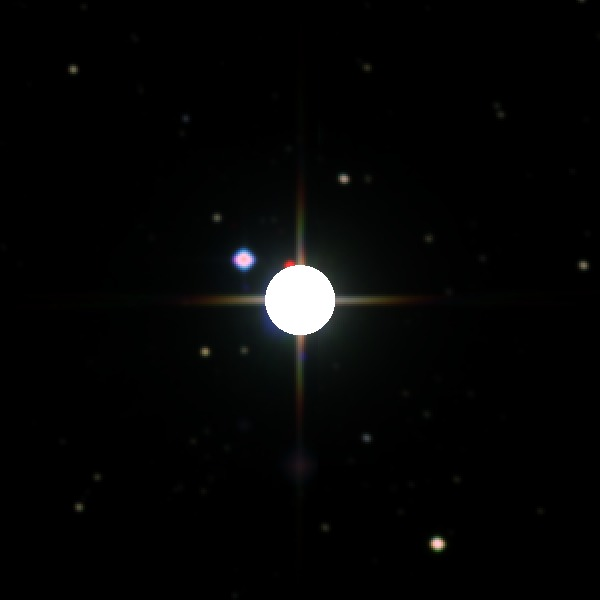
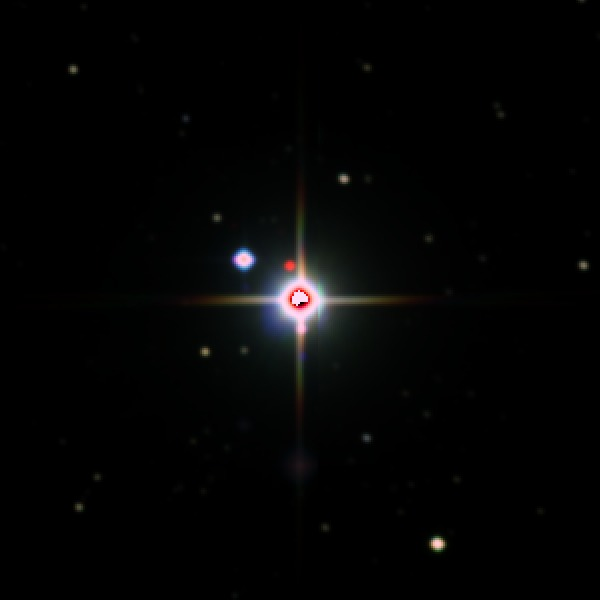
Almanac/Albireo: repair only the saturated-core dip, keep the real PSF
The previous 2MASS composite filled a flat 32px disk to white, which was
far larger than the actual saturation and erased the real PSF. Instead,
fill only the zeroed-out core pixels (the negative central dip, radius
~10px) using a common union mask across J/H/Ks, and leave everything
else untouched. Albireo A now shows its true compact amber saturated
core and spikes, Albireo B stays resolved as the blue companion, and the
per-band mask mismatch that tinted the center blue is gone.
Credit updated to match.

Changed region(s): [[0.42, 0.42, 0.57, 0.57]]

diff --git a/_almanac/albireo.md b/_almanac/albireo.md
@@ -1,14 +1,14 @@
 ---
 layout: page
 title: Albireo
-subtitle: β Cygni — the beak of the Swan
+subtitle: aka β Cygni, the Head of the Swan
 description: Naked-eye a single point at the foot of the Northern Cross, but a small telescope splits Albireo into one of the sky's most celebrated color-contrast pairs — a warm amber giant beside a blue companion. Whether the two are gravitationally bound or merely a chance line-of-sight alignment is still debated.
 group: personal
 order: 1
 live: true
 card_img: assets/img/almanac/placeholder-star.svg
 sky_img: assets/img/almanac/albireo-2mass.jpg
-sky_credit: "2MASS near-infrared composite (J, H, Ks mapped to blue, green, red); the bright primary saturates the detector, so its core is filled to white. Albireo B is the bluer companion to the upper-left. Data: 2MASS (NASA/IPAC/Caltech) via NASA SkyView."
+sky_credit: "2MASS near-infrared composite (J, H, Ks mapped to blue, green, red); the amber primary saturates the detector, so its zeroed-out core pixels have been filled in. Albireo B is the bluer companion to the upper-left. Data: 2MASS (NASA/IPAC/Caltech) via NASA SkyView."
 ---
 
 {% if page.sky_img %}
@@ -18,7 +18,8 @@ sky_credit: "2MASS near-infrared composite (J, H, Ks mapped to blue, green, red)
 </div>
 {% endif %}
 
-Albireo (β Cygni) marks the head of the Swan in the constellation Cygnus, at
+Albireo (β Cygni) 
+marks the head of the Swan in the constellation Cygnus, at
 the foot of the asterism known as the Northern Cross. To the naked eye it looks
 like a single star of about third magnitude, but even a modest telescope
 resolves it into a striking pair separated by roughly 35 arcseconds — often
@@ -33,11 +34,6 @@ called the finest color-contrast double in the sky.
 - **Albireo B** — the fainter, blue-white component (apparent magnitude ~5.1),
   a hot, fast-rotating B-type main-sequence star.
 
-The vivid gold-versus-blue contrast comes from the large difference in surface
-temperature between the cool giant and the hot main-sequence star — roughly
-4,400 K for the amber primary against some 13,000 K for the blue companion. The
-colors are a direct, naked-telescope illustration of the relationship between a
-star's temperature and its color.
 
 ## A true binary, or a chance alignment?
 
@@ -52,10 +48,6 @@ to pin down — and it is a nice reminder that even famous, familiar objects can
 hold open problems.
 
 ## Finding it
-
-Albireo sits at the southern end of the Northern Cross, almost on a line between
-Vega and Altair, and is easy to locate on a summer or autumn evening in the
-northern sky. Almost any small telescope — even steadily held binoculars at
-higher magnification — will split the pair and show the color contrast.
+The constellation Cygnus the Swan sits along the band of the Milky Way, as if the swan were flying over a river of stars. Albireo can be seen as the head of the swan, 
 
 *Reference: see the [SIMBAD entry for β Cygni](https://simbad.cds.unistra.fr/simbad/sim-id?Ident=beta+Cyg) for catalog data and bibliography.*
